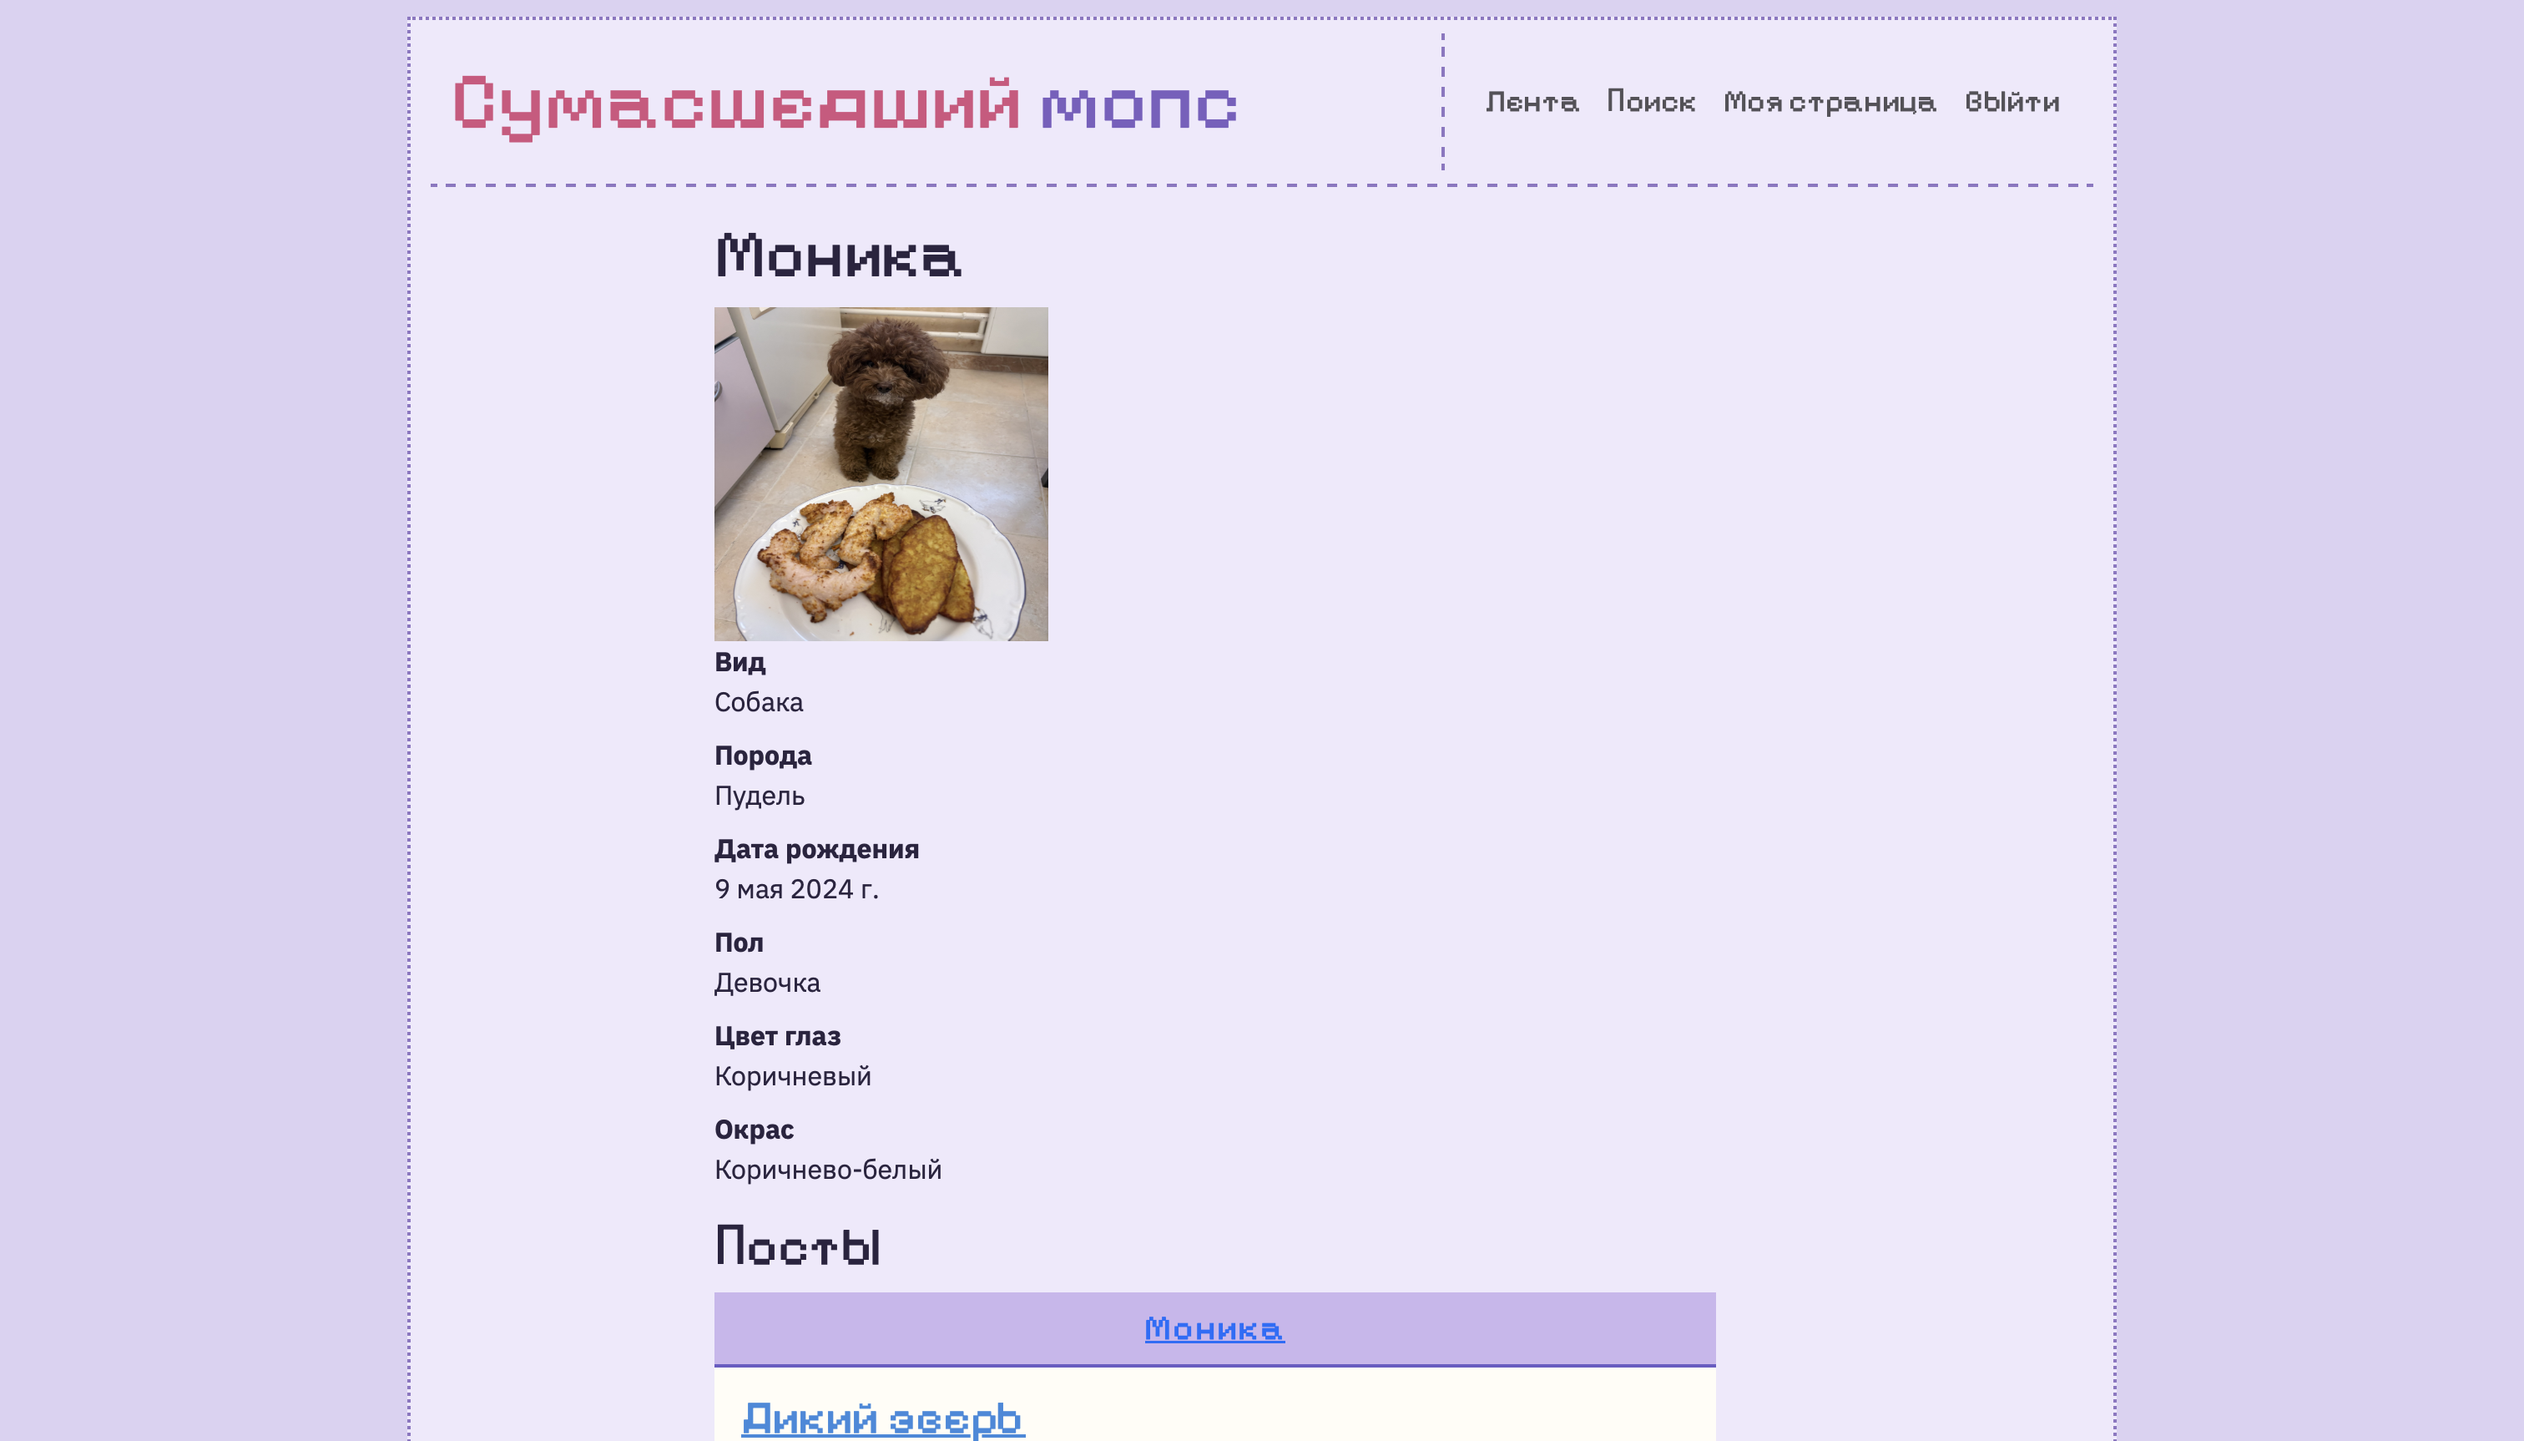
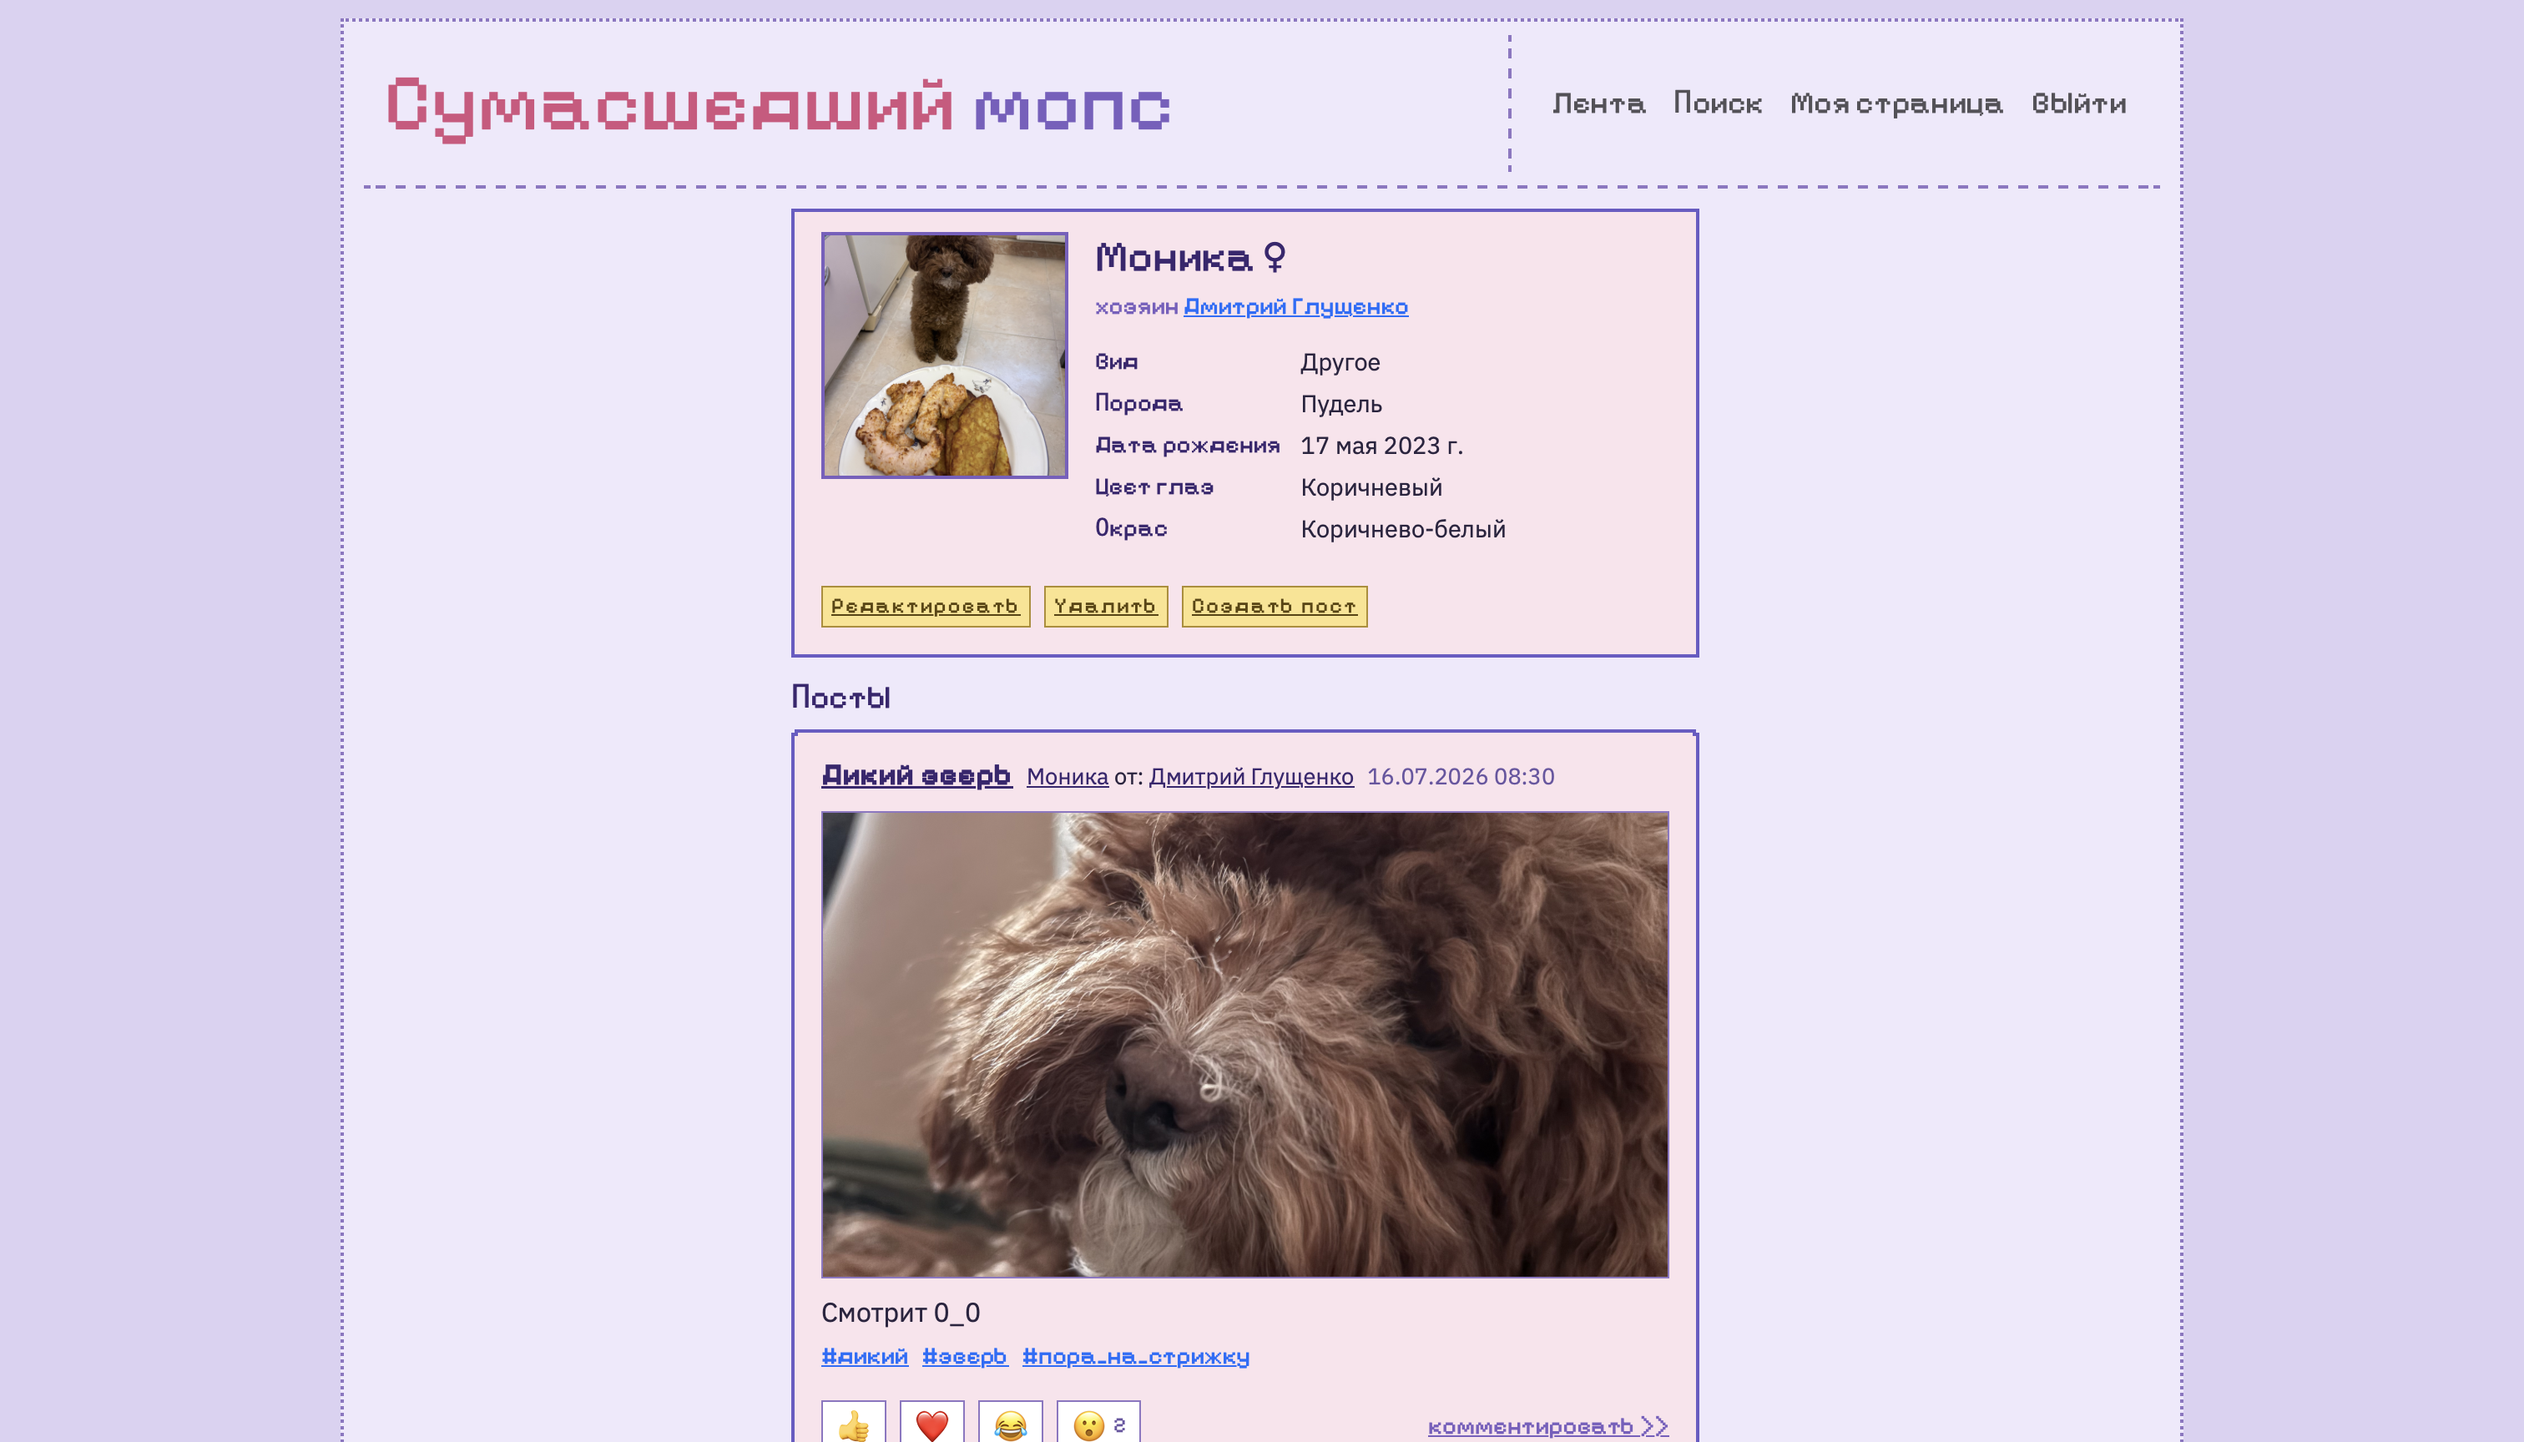
fix-readme: обновление скриншотов до актуальных

Changed region(s): [[0.2798, 0.1228, 0.6839, 1.0], [0.1554, 0.0307, 0.4974, 0.0921], [0.5906, 0.0614, 0.8393, 0.0921]]

diff --git a/README.md b/README.md
@@ -126,11 +126,14 @@ ER-диаграмма: `docs/ER_diagram.md`
 
 ## Скриншоты
 
-![Главная страница](docs/screenshots/feed.png)
-![Страница поста 1/3](docs/screenshots/post_01.png)
-![Страница поста 2/3](docs/screenshots/post_02.png)
-![Страница поста 3/3](docs/screenshots/post_03.png)
-![Страница питомца](docs/screenshots/pet_profile.png)
+![Главная страница 1/2](docs/screenshots/feed_01.png)
+![Главная страница 2/2](docs/screenshots/feed_02.png)
+![Дерево комментариев](docs/screenshots/comments.png)
+![Профиль питомца](docs/screenshots/pet_profile.png)
+![Профиль пользователя 1/2](docs/screenshots/profile_01.png)
+![Профиль пользователя 2/2](docs/screenshots/profile_02.png)
+![Посты](docs/screenshots/posts.png)
+![Поиск](docs/screenshots/search.png)
 
 ## Видео-демо
 
